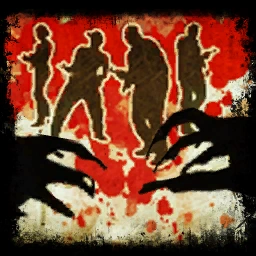
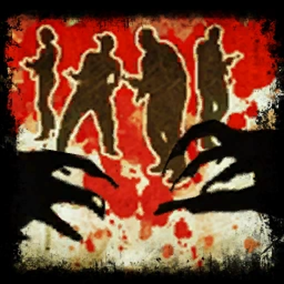
edited 4 images updated index.html, script.js, style.css
- edited the sizes of images

- add scrollable function on Game modes section

-change variable names

diff --git a/index.html b/index.html
@@ -102,7 +102,7 @@
           </div>
         </div>
       </div>
-      <h2 class="head2">Story</h2>
+      <h2 class="head2">STORY</h2>
       <div class="section-container">
         <div class="section-details-container">
           <div class="section-text">
@@ -172,7 +172,7 @@
       </div>
     </section>
     <section id="characters">
-      <h2 class="head2"><br />Characters</h2>
+      <h2 class="head2"><br />CHARACTERS</h2>
       <section id="survivors">
         <h2 class="head3"><br />Survivors</h2>
         <div class="section-container">
@@ -506,95 +506,77 @@
         </div>
       </section>
     </section>
-    <section id=" #weapons">
-      <h2 class="head2"><br />Weapons</h2>
-      <!-- <div class="scroll-container">
-        <div class="scrollable-content">
-          <img src="./assets/EQAK47.png" alt="AK47" />
-          <img src="./assets/EQChainsaw.png" alt="Chainsaw" />
-          <img src="./assets/EQCombatShotgun.png" alt="Combat Shotgun" />
-          <img src="./assets/EQFireAxe.png" alt="Fire Axe" />
-          <img src="./assets/EQGasolineTank.png" alt="Gas Tank" />
-          <img src="./assets/EQKatana.png" alt="Katana" />
-          <img src="./assets/EQLasersight.png" alt="Lasersight" />
-          <img src="./assets/EQM16AssaultRifle.png" alt="M16 Assault Rifle" />
-          <img src="./assets/EQM1991.png" alt="M1991" />
-          <img src="./assets/EQMachete.png" alt="Machete" />
-          <img src="./assets/EQMagnumPistol.png" alt="Magnum Pistol" />
-          <img src="./assets/EQMolotovCocktail.png" alt="Molotov Cocktail" />
-          <img src="./assets/EQPIPEBOMB.png" alt="Pipe Bomb" />
-          <img
-            src="./assets/EQSilenceSubmachineGun.png"
-            alt="Silence Submachine Gun"
-          />
-          <img src="./assets/EQSubmachineGun.png" alt="Submachine Gun" />
-        </div>
-      </div> -->
+    <section id="weapons">
+      <h2 class="head2"><br />WEAPONS</h2>
     </section>
-    <section id="weapons"></section>
     <section id="stages">
       <h2 class="head6"><br />STAGES</h2>
-      <section class="container">
-        <div class="card">
-          <div class="card-image pic-1"></div>
-          <h1>Dead Center</h1>
-          <p>
-            Dead Center" is the first campaign in Left 4 Dead 2. It takes place
-            in Savannah, Georgia, a city that has just been hit by the
-            Infection.
-          </p>
+      <div class="section-container">
+        <div class="section-details-container">
+          <section class="container">
+            <div class="card">
+              <div class="card-image pic-1"></div>
+              <h1>Dead Center</h1>
+              <p>
+                Dead Center" is the first campaign in Left 4 Dead 2. It takes
+                place in Savannah, Georgia, a city that has just been hit by the
+                Infection.
+              </p>
+            </div>
+            <div class="card">
+              <div class="card-image pic-2"></div>
+              <h1>The Passing</h1>
+              <p>
+                The Passing is the first DLC campaign in Left 4 Dead 2, which
+                includes a new campaign and "new co-operative challenge modes of
+                play" and introduces a new firearm, the M60; the Golf Club, and
+                a new Uncommon Infected called the Fallen Survivor.
+              </p>
+            </div>
+            <div class="card">
+              <div class="card-image pic-3"></div>
+              <h1>Dark Carnival</h1>
+              <p>
+                Dark Carnival" is the third campaign in Left 4 Dead 2. It mainly
+                takes place in Whispering Oaks Amusement Park in Griffin County,
+                Georgia.
+              </p>
+            </div>
+            <div class="card">
+              <div class="card-image pic-4"></div>
+              <h1>Swamp Fever</h1>
+              <p>
+                Swamp Fever is Left 4 Dead 2's fourth campaign. Swamp Fever
+                spans four long chapters and takes place in Louisiana-type
+                bayous and swamplands near a shanty town called Village En
+                Marais.
+              </p>
+            </div>
+            <div class="card">
+              <div class="card-image pic-5"></div>
+              <h1>Hard Rain</h1>
+              <p>
+                Hard Rain is the fifth campaign in Left 4 Dead 2, taking place
+                after Swamp Fever. It is set in the riverside town of Ducatel,
+                Mississippi as a hurricane approaches.
+              </p>
+            </div>
+            <div class="card">
+              <div class="card-image pic-6"></div>
+              <h1>The Parish</h1>
+              <p>
+                The Parish is the final campaign in Left 4 Dead 2 and is set in
+                New Orleans, Louisiana. The campaign involves traveling from The
+                Waterfront to a military helicopter evacuation point on the far
+                side of The Bridge.
+              </p>
+            </div>
+          </section>
         </div>
-        <div class="card">
-          <div class="card-image pic-2"></div>
-          <h1>The Passing</h1>
-          <p>
-            The Passing is the first DLC campaign in Left 4 Dead 2, which
-            includes a new campaign and "new co-operative challenge modes of
-            play" and introduces a new firearm, the M60; the Golf Club, and a
-            new Uncommon Infected called the Fallen Survivor.
-          </p>
-        </div>
-        <div class="card">
-          <div class="card-image pic-3"></div>
-          <h1>Dark Carnival</h1>
-          <p>
-            Dark Carnival" is the third campaign in Left 4 Dead 2. It mainly
-            takes place in Whispering Oaks Amusement Park in Griffin County,
-            Georgia.
-          </p>
-        </div>
-        <div class="card">
-          <div class="card-image pic-4"></div>
-          <h1>Swamp Fever</h1>
-          <p>
-            Swamp Fever is Left 4 Dead 2's fourth campaign. Swamp Fever spans
-            four long chapters and takes place in Louisiana-type bayous and
-            swamplands near a shanty town called Village En Marais.
-          </p>
-        </div>
-        <div class="card">
-          <div class="card-image pic-5"></div>
-          <h1>Hard Rain</h1>
-          <p>
-            Hard Rain is the fifth campaign in Left 4 Dead 2, taking place after
-            Swamp Fever. It is set in the riverside town of Ducatel, Mississippi
-            as a hurricane approaches.
-          </p>
-        </div>
-        <div class="card">
-          <div class="card-image pic-6"></div>
-          <h1>The Parish</h1>
-          <p>
-            The Parish is the final campaign in Left 4 Dead 2 and is set in New
-            Orleans, Louisiana. The campaign involves traveling from The
-            Waterfront to a military helicopter evacuation point on the far side
-            of The Bridge.
-          </p>
-        </div>
-      </section>
+      </div>
     </section>
     <section id="gamemodes">
-      <h2 class="head2"><br />Game Modes</h2>
+      <h2 class="head2"><br />GAME MODES</h2>
       <div class="section-container">
         <div class="section-details-container">
           <div class="game-modes-container">
@@ -847,56 +829,56 @@
             </div>
             <button
               class="tablink"
-              onclick="openCity('Campaign', this, 'rgba(255, 255, 255, 0.1)')"
+              onclick="openMode('Campaign', this, 'rgba(255, 255, 255, 0.1)')"
               id="defaultOpen"
             >
               Campaign
             </button>
             <button
               class="tablink"
-              onclick="openCity('Single-Player', this, 'rgba(255, 255, 255, 0.1)')"
+              onclick="openMode('Single-Player', this, 'rgba(255, 255, 255, 0.1)')"
             >
               Single Player
             </button>
             <button
               class="tablink"
-              onclick="openCity('Survival', this, 'rgba(255, 255, 255, 0.1)')"
+              onclick="openMode('Survival', this, 'rgba(255, 255, 255, 0.1)')"
             >
               Survival
             </button>
             <button
               class="tablink"
-              onclick="openCity('Versus-Survival', this, 'rgba(255, 255, 255, 0.1)')"
+              onclick="openMode('Versus-Survival', this, 'rgba(255, 255, 255, 0.1)')"
             >
               Versus Survival
             </button>
             <button
               class="tablink"
-              onclick="openCity('Versus', this, 'rgba(255, 255, 255, 0.1)')"
+              onclick="openMode('Versus', this, 'rgba(255, 255, 255, 0.1)')"
             >
               Versus
             </button>
             <button
               class="tablink"
-              onclick="openCity('Realism-Versus', this, 'rgba(255, 255, 255, 0.1)')"
+              onclick="openMode('Realism-Versus', this, 'rgba(255, 255, 255, 0.1)')"
             >
               Realism Versus
             </button>
             <button
               class="tablink"
-              onclick="openCity('Realism', this, 'rgba(255, 255, 255, 0.1)')"
+              onclick="openMode('Realism', this, 'rgba(255, 255, 255, 0.1)')"
             >
               Realism
             </button>
             <button
               class="tablink"
-              onclick="openCity('Scavenge', this, 'rgba(255, 255, 255, 0.1)')"
+              onclick="openMode('Scavenge', this, 'rgba(255, 255, 255, 0.1)')"
             >
               Scavenge
             </button>
             <button
               class="tablink"
-              onclick="openCity('Mutations', this, 'rgba(255, 255, 255, 0.1)')"
+              onclick="openMode('Mutations', this, 'rgba(255, 255, 255, 0.1)')"
             >
               Mutations
             </button>
@@ -904,7 +886,12 @@
         </div>
       </div>
     </section>
-    <section id="about"></section>
+    <section id="about">
+      <h2 class="head2"><br />ABOUT</h2>
+      <div class="section-container">
+        <div class="section-details-container"></div>
+      </div>
+    </section>
     <script src="script.js"></script>
   </body>
 </html>

diff --git a/style.css b/style.css
@@ -256,13 +256,13 @@ p {
   font-size: 2.5rem;
   padding-left: 5rem;
   color: #fff;
-  -webkit-text-stroke: 2px rgb(97, 73, 59);
+  -webkit-text-stroke: 2px rgb(235, 34, 27);
 }
 
 .head6 {
-  text-align: center;
+  text-align: left;
   margin: 0.5rem auto;
-  font-size: 2.5rem;
+  font-size: 3rem;
   padding-left: 5rem;
   color: #fff;
   -webkit-text-stroke: 2px rgb(63, 125, 240);
@@ -782,8 +782,11 @@ div.scroll-container img {
   display: none;
   padding: 100px;
   z-index: 100;
-  overflow: auto;
+  overflow: hidden;
   text-align: center;
+  height: 500px;
+  overflow-y: scroll;
+  width: 100%;
 }
 
 /* Style each tab content individually */

diff --git a/script.js b/script.js
@@ -88,7 +88,7 @@ image3.forEach((image3) => {
   });
 });
 
-function openCity(cityName, elmnt, color) {
+function openMode(modeName, elmnt, color) {
   // Hide all elements with class="tabcontent" by default */
   var i, tabcontent, tablinks;
   tabcontent = document.getElementsByClassName("tabcontent");
@@ -103,7 +103,7 @@ function openCity(cityName, elmnt, color) {
   }
 
   // Show the specific tab content
-  document.getElementById(cityName).style.display = "block";
+  document.getElementById(modeName).style.display = "block";
 
   // Add the specific color to the button used to open the tab content
   elmnt.style.backgroundColor = color;
